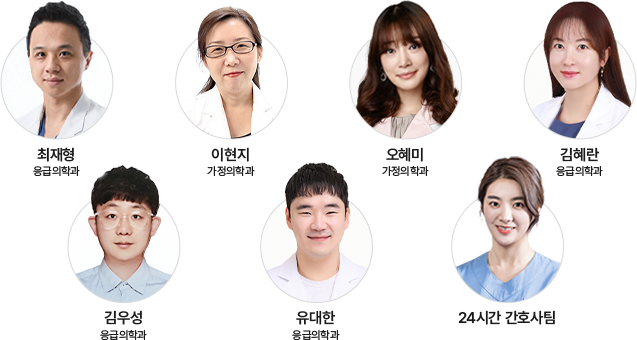
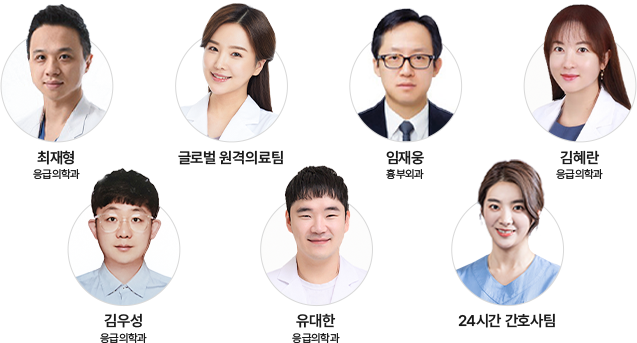
1차 수정

diff --git a/index.html b/index.html
@@ -187,37 +187,53 @@
 					</p>
 				</div>
 
-				<div class="is-pc">
+				<div class="is-pc mb50">
 					<ul class="main-box-03-list">
 						<li class="main-box-03-item type01">
-							<p class="item-txt">의료진 상담을 통해<br>검진예약 대행</p>
+							<div>
+								<p class="item-txt">의료진 상담을 통해<br>검진예약 대행</p>
+							</div>
 						</li>
 						<li class="main-box-03-item type02">
-							<p class="item-txt">전국 17개 검진센터에서<br>70여종의 건강검진 제공</p>
+							<div>
+								<p class="item-txt">전국 17개 검진센터에서<br>70여종의 건강검진 제공</p>
+							</div>
 						</li>
 						<li class="main-box-03-item type03">
-							<p class="item-txt">전세계 3,000곳의 제휴병원과<br>연계치료 제공</p>
+							<div>
+								<p class="item-txt">전세계 3,000곳의 제휴병원과<br>연계치료 제공</p>
+							</div>
 						</li>
 						<li class="main-box-03-item type04">
-							<p class="item-txt">귀국 치료시 한국병원 예약,<br>숙소/비행기 예약 대행</p>
+							<div>
+								<p class="item-txt">귀국 치료시 한국병원 예약,<br>숙소/비행기 예약 대행</p>
+							</div>
 						</li>
 					</ul>
 				</div>
 
 
-				<div class="main-box-03-list-wrap is-m swiper">
+				<div class="main-box-03-list-wrap is-m swiper mb30">
 					<ul class="mt50 swiper-wrapper">
 						<li class="main-box-03-item swiper-slide type01">
-							<p class="item-txt">의료진 상담을 통해<br>검진예약 대행</p>
+							<div>
+								<p class="item-txt">의료진 상담을 통해<br>검진예약 대행</p>
+							</div>
 						</li>
 						<li class="main-box-03-item swiper-slide type02">
-							<p class="item-txt">전국 17개 검진센터에서<br>70여종의 건강검진 제공</p>
+							<div>
+								<p class="item-txt">전국 17개 검진센터에서<br>70여종의 건강검진 제공</p>
+							</div>
 						</li>
 						<li class="main-box-03-item swiper-slide type03">
-							<p class="item-txt">전세계 3,000곳의 제휴병원과<br>연계치료 제공</p>
+							<div>
+								<p class="item-txt">전세계 3,000곳의 제휴병원과<br>연계치료 제공</p>
+							</div>
 						</li>
 						<li class="main-box-03-item swiper-slide type04">
-							<p class="item-txt">귀국 치료시 한국병원 예약,<br>숙소/비행기 예약 대행</p>
+							<div>
+								<p class="item-txt">귀국 치료시 한국병원 예약,<br>숙소/비행기 예약 대행</p>
+							</div>
 						</li>
 					</ul>
 					
@@ -225,7 +241,7 @@
 					<div class="swiper-button-next"><span class="tts">다음</span></div>
 				</div>
 
-				<div class="button-box flex-tc mt80">
+				<div class="button-box flex-tc">
 					<a href="http://jeonghui.com/kmong/230722/randing.html" class="btn btn-blue">자세히 알아보기</a>
 				</div>
 			</div>
@@ -281,7 +297,8 @@
 					<h2>의료진 소개</h2>
 					<p>가정의학과, 응급의학과, 내과, 소아과, 피부과 등 전문의가<br><strong class="ft-red">원격진료, 전문의 상담, 응급 의료 상담</strong>을 제공해 드립니다</p>
 				</div>	
-				<img src="./asset/images/img_randing_02.png" alt="최재형-응급의학과, 글로벌 원격의료팀, 임재웅-흉부외과, 김혜란-응급의학과, 김우성-응급의학과, 유대한-응급의학과,  24시간 간호사팀">
+				<img src="./asset/images/img_randing_02.png" class="is-pc" alt="최재형-응급의학과, 글로벌 원격의료팀, 임재웅-흉부외과, 김혜란-응급의학과, 김우성-응급의학과, 유대한-응급의학과,  24시간 간호사팀">
+				<img src="./asset/images/img_randing_02_mob.png" class="is-m" alt="최재형-응급의학과, 글로벌 원격의료팀, 임재웅-흉부외과, 김혜란-응급의학과, 김우성-응급의학과, 유대한-응급의학과,  24시간 간호사팀">
 			</div>
 			
 			<div class="main-box-05">

diff --git a/asset/css/common.css b/asset/css/common.css
@@ -1144,6 +1144,7 @@ footer.type01 .kakao-box a {width:100%; justify-content:center;}
     position: relative;
     overflow: hidden;
     border-radius: 20px;
+    width: 500px;
 }
 
 .iframe-box::after {
@@ -1168,6 +1169,7 @@ footer.type01 .kakao-box a {width:100%; justify-content:center;}
 @media (max-width: 991px) {
     .iframe-box {
         border-radius: 10px;
+        width: inherit;
     }
 }
 
@@ -1213,12 +1215,12 @@ footer.type01 .kakao-box a {width:100%; justify-content:center;}
 }
 
 .intro-box .intro-image {
-    width: 460px;
+    width: 500px;
 }
 
 @media (max-width: 1200px) {
     .intro-box .intro-image {
-        width: 450px;
+        width: 500px;
     }
 }
 
@@ -2093,7 +2095,7 @@ footer.type01 .kakao-box a {width:100%; justify-content:center;}
     justify-content: center;
     margin-top: -50px;
     padding-top: 120px;
-    min-height: 680px;
+    min-height: 720px;
     background: #f5f5f7 url(../images/img_main_02.png) no-repeat center bottom / cover;
 }
 
@@ -2104,10 +2106,14 @@ footer.type01 .kakao-box a {width:100%; justify-content:center;}
     letter-spacing: -0.05em;
 }
 
+.main-box-02 .iframe-box {
+    width: 600px;
+}
+
 
 @media (max-width: 991px) {
     .main-box-01 {
-        background-position: right -250px bottom;
+        background-position: right -150px bottom;
     }
     .main-box-01 h3 {
         font-size: 30px;
@@ -2130,6 +2136,10 @@ footer.type01 .kakao-box a {width:100%; justify-content:center;}
     .main-box-02 .title-box p {
         font-size: 16px;
     }
+
+    .main-box-02 .iframe-box {
+        width: inherit;
+    }
 }
 
 .main-box-03 {
@@ -2149,26 +2159,26 @@ footer.type01 .kakao-box a {width:100%; justify-content:center;}
     gap: 20px;
 }
 
-.main-box-03-item{
+.main-box-03-item div {
     padding: 200px 0 0 0;
     border-radius: 14px;
     overflow: hidden;
     box-shadow: 3px 3px 5px #ccc
 }
 
-.main-box-03-item.type01 {
+.main-box-03-item.type01 div {
     background: #fff url("../images/img_main_03_01.png") no-repeat center top 35px/ 180px;
 }
 
-.main-box-03-item.type02 {
+.main-box-03-item.type02 div {
     background: #fff url("../images/img_main_03_02.png") no-repeat center top 30px/ 180px;
 }
 
-.main-box-03-item.type03 {
+.main-box-03-item.type03 div {
     background: #fff url("../images/img_main_03_03.png") no-repeat center top 35px/ 270px;
 }
 
-.main-box-03-item.type04 {
+.main-box-03-item.type04 div {
     background: #fff url("../images/img_main_03_04.png") no-repeat center top 35px/ 100px;
 }
 
@@ -2180,6 +2190,13 @@ footer.type01 .kakao-box a {width:100%; justify-content:center;}
     line-height: 1.4;
 }
 
+@media (max-width: 991px) {
+    .main-box-03-item div{
+        width: 70%;
+        margin: 0 auto;
+    }
+}
+
 @media (max-width: 768px) {
     .main-box-03 {
         padding: 60px 0;
@@ -2187,6 +2204,10 @@ footer.type01 .kakao-box a {width:100%; justify-content:center;}
     .main-box-03-list {
         display: -webkit-box;
         width: auto;
+    }
+    .main-box-03-item .item-txt {
+        padding: 15px;
+        font-size: 15px;
     }
 }
 
